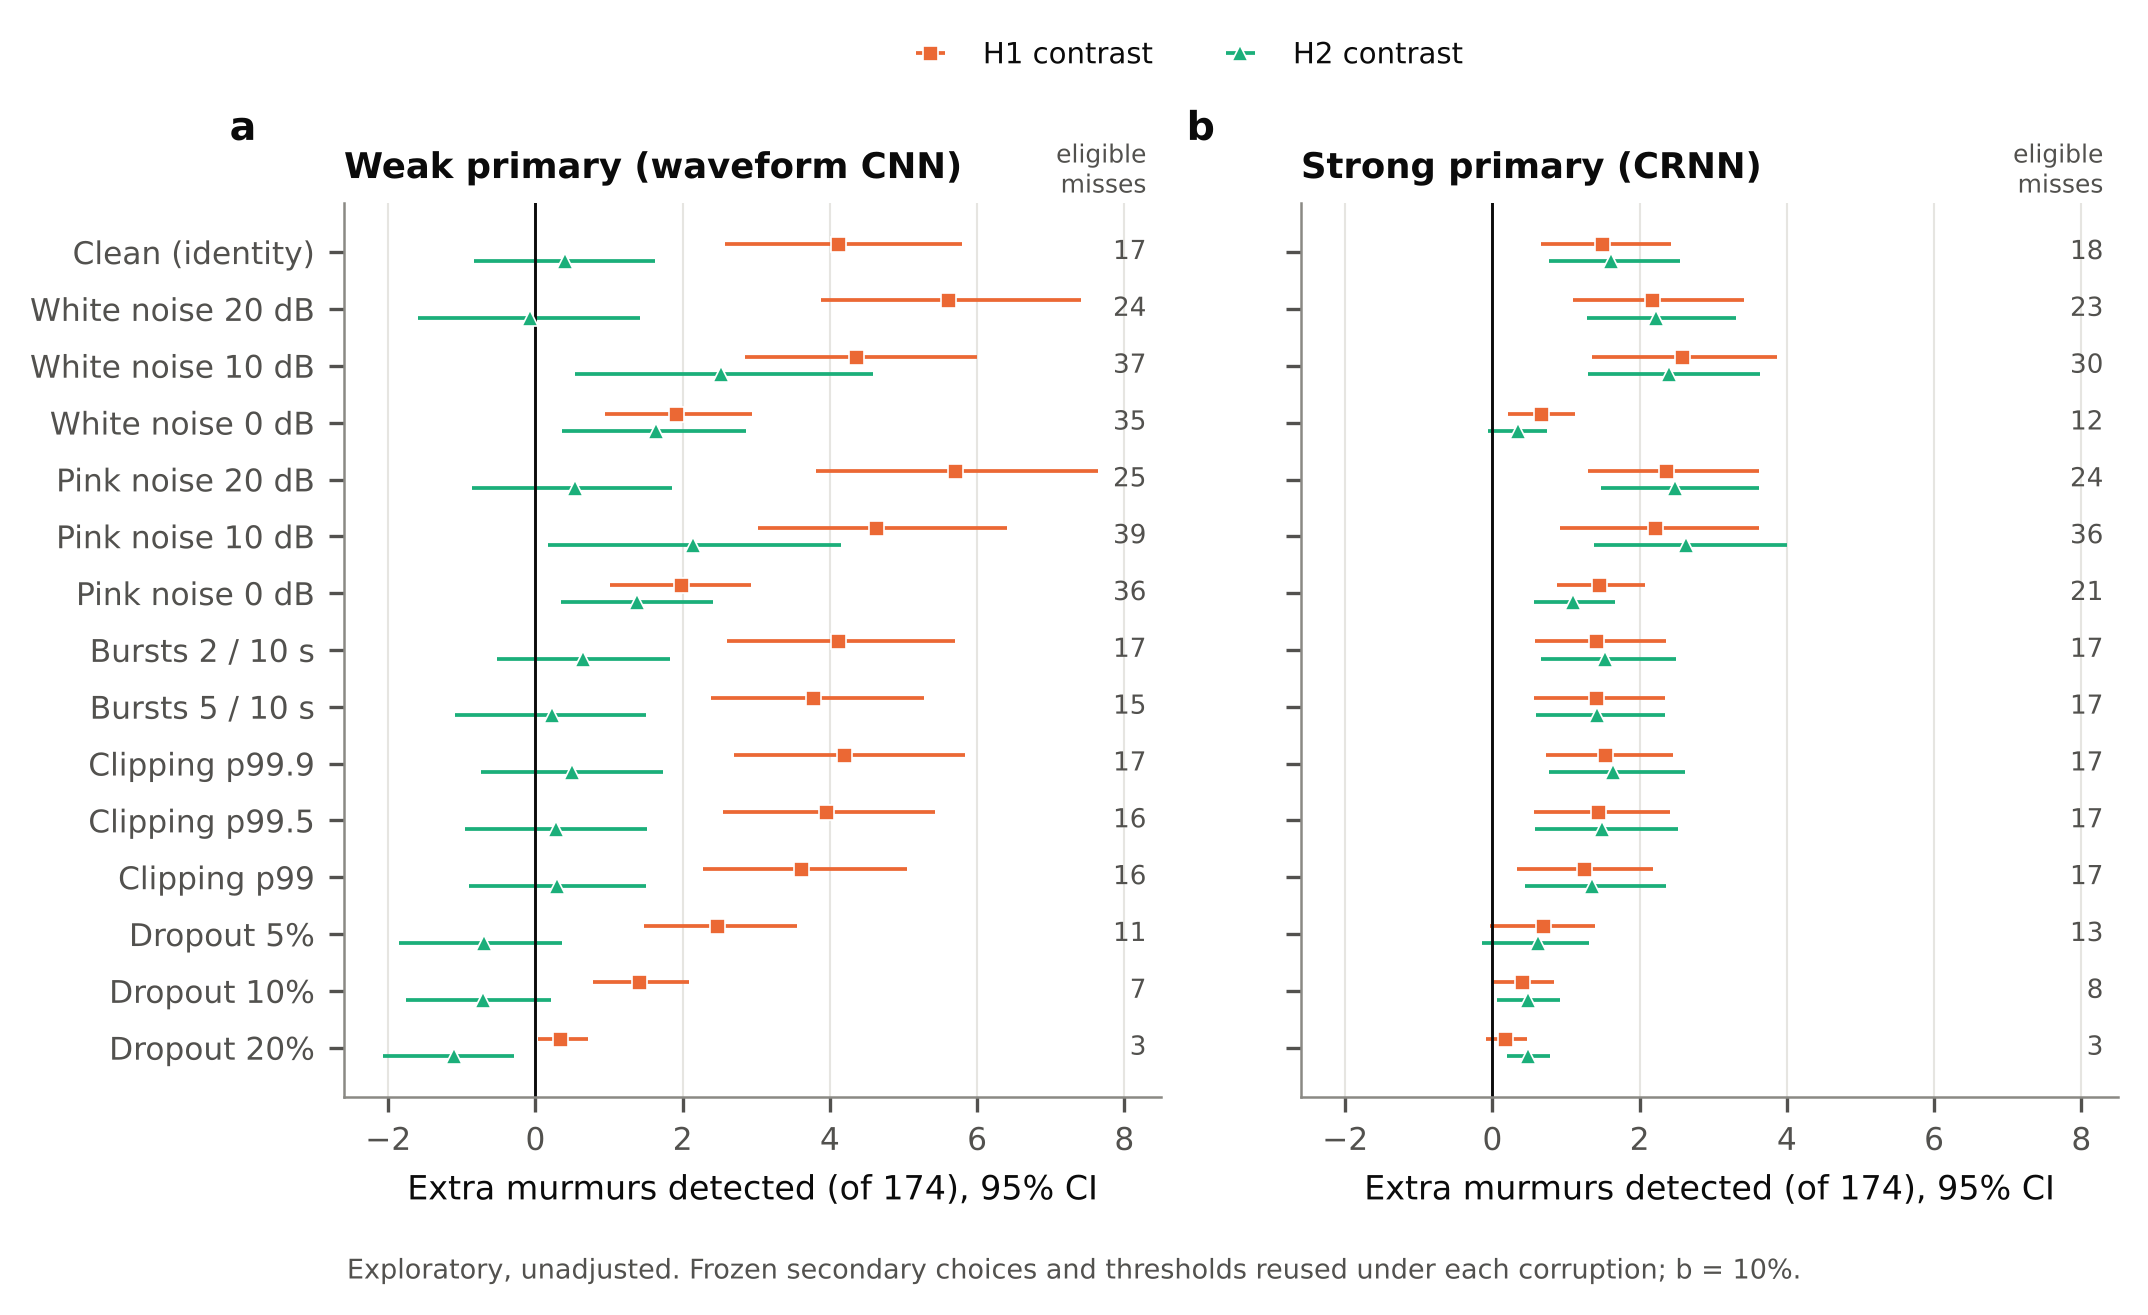
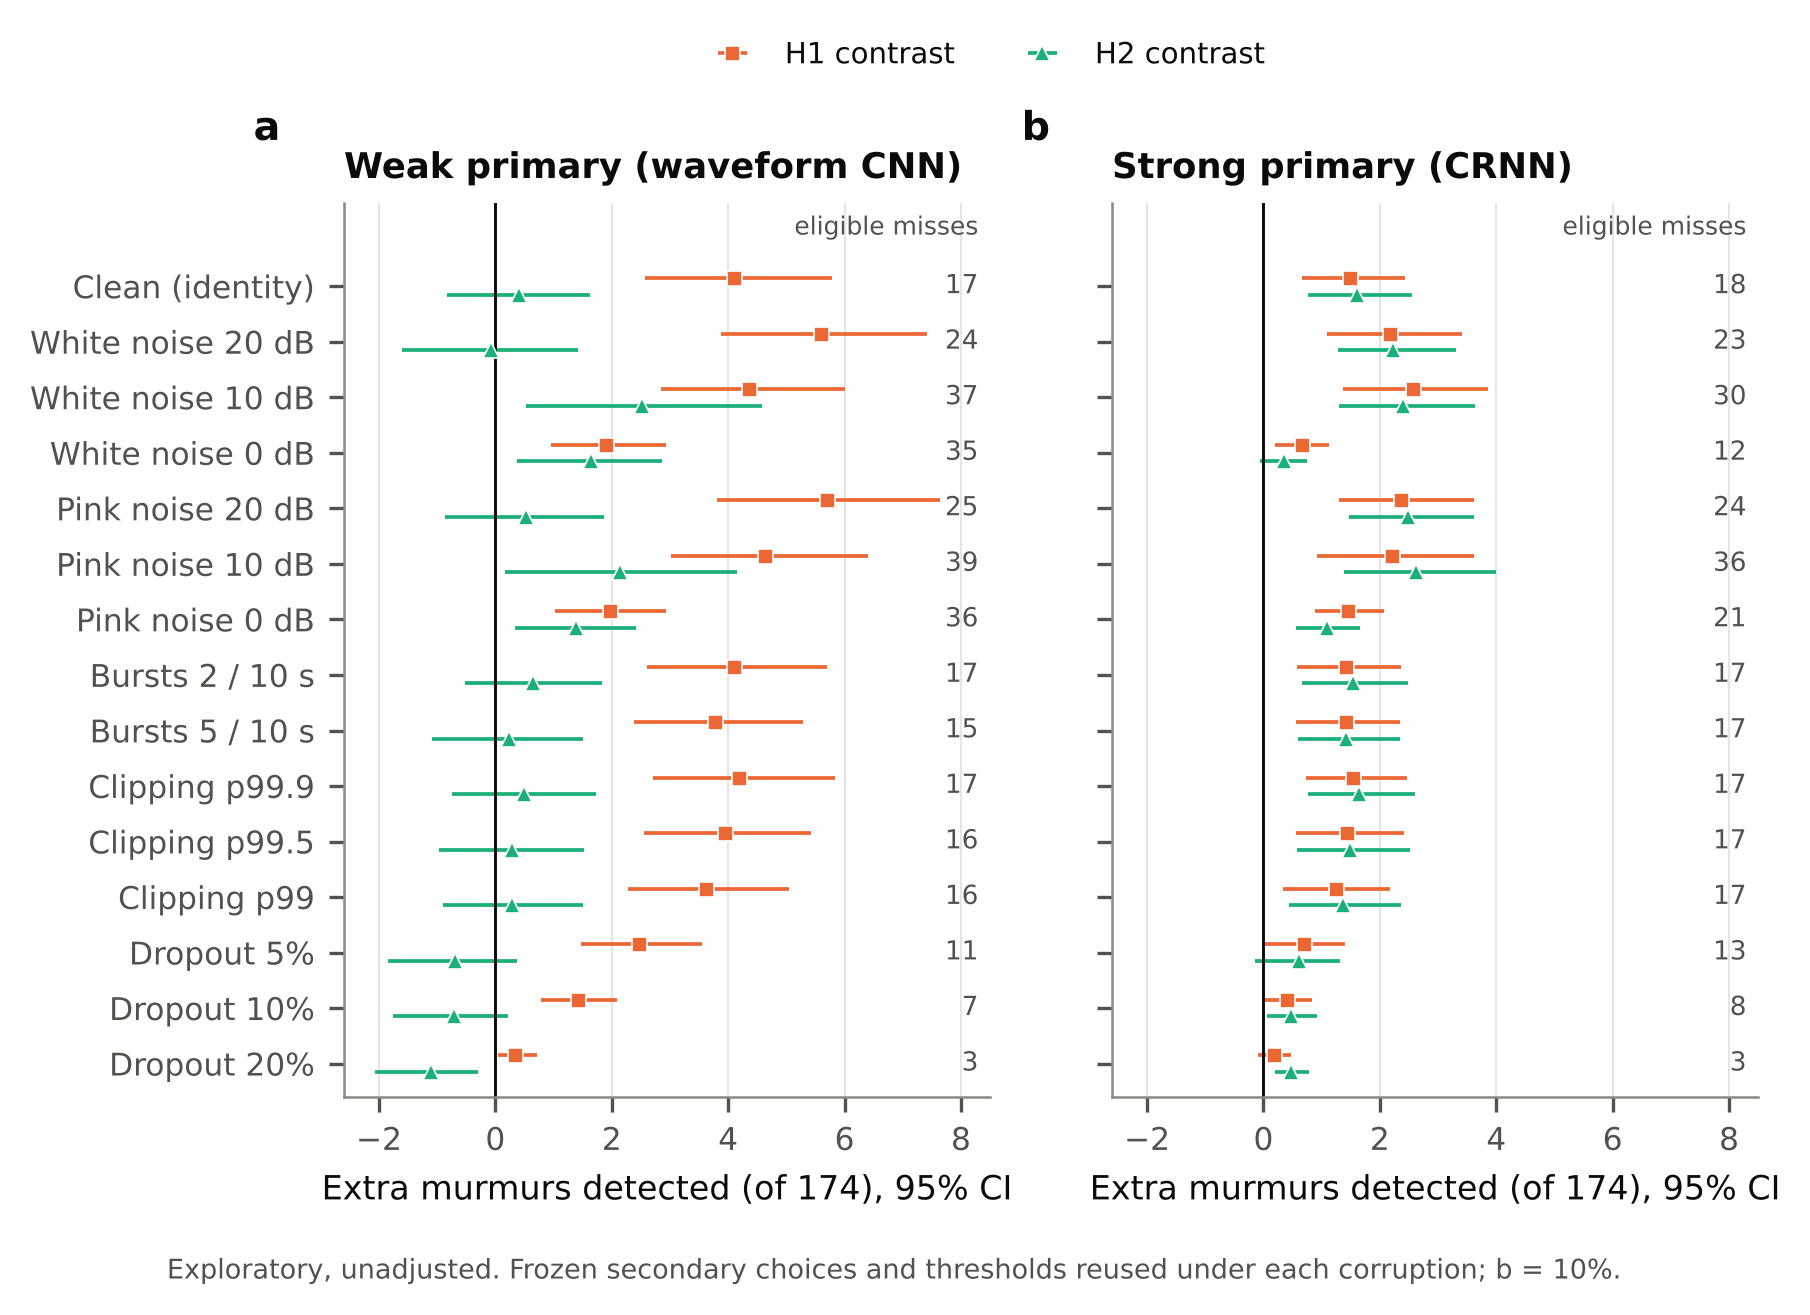
Enlarge text in budget and corruption-referral figures

diff --git a/post_hoc/make_figures.py b/post_hoc/make_figures.py
@@ -138,7 +138,7 @@ def fig_study_a():
 def fig_budget():
     desc = pd.read_csv(R / "post_hoc" / "budget_curve_descriptive.csv")
     con = pd.read_csv(R / "post_hoc" / "budget_curve_contrasts.csv")
-    fig, axes = plt.subplots(2, 2, figsize=(7.2, 5.0), sharex=True)
+    fig, axes = plt.subplots(2, 2, figsize=(6.0, 4.6), sharex=True)
     for j, pl in enumerate(["weak", "strong"]):
         d = desc[desc.primary == pl]
         ax = axes[0, j]
@@ -169,14 +169,15 @@ def fig_budget():
             ax.plot(xb, c.estimate_murmurs, color=col, marker=mk, ms=3.5, label=lab, mec="white", mew=0.5)
         ax.axhline(0, color=INK, lw=0.7)
         ax.axvline(10, color=INK2, lw=0.6, zorder=0)
-        ax.set_xlabel("Review budget b (% of the primary's predicted negatives)")
+        ax.set_xlabel("Review budget b (% of predicted negatives)")
         ax.set_ylabel("Extra murmurs detected by the\nsecond-opinion workflow (95% CI)" if j == 0 else "")
         ax.set_ylim(min(-4.0, con.ci95_lo.min() * N_PRESENT - 0.3), 6.6)
         panel_label(ax, "cd"[j])
         if j == 1:
-            ax.legend(*axes[1, 0].get_legend_handles_labels(), loc="upper right", fontsize=6.4, handlelength=1.8)
-    fig.text(0.5, -0.02, "Budget curve registered in the protocol (§6) and computed after the frozen analysis with the frozen Study C code "
-             "(deviation 3). Ribbons: individual-clustered bootstrap 95% CIs; descriptive, no tests.", ha="center", fontsize=6.5, color=INK2)
+            fig.legend(*axes[1, 0].get_legend_handles_labels(), loc="upper center", bbox_to_anchor=(0.5, 0.005), ncol=1,
+                       fontsize=6.6, handlelength=1.8)
+    fig.text(0.5, -0.115, "Budget curve registered in the protocol (§6), computed after the frozen analysis with the frozen Study C code\n"
+             "(deviation 3). Ribbons: individual-clustered bootstrap 95% CIs; descriptive, no tests.", ha="center", va="top", fontsize=6.5, color=INK2)
     fig.tight_layout(h_pad=1.4, w_pad=2.0)
     save(fig, "fig3_budget_curve")
 
@@ -343,7 +344,7 @@ def fig_study_b_snr():
 def fig_study_b_referral():
     ref = pd.read_csv(R / "studyB_referral.csv")
     conds = [c for c in COND_ORDER]
-    fig, axes = plt.subplots(1, 2, figsize=(7.2, 3.9), sharey=True)
+    fig, axes = plt.subplots(1, 2, figsize=(6.0, 3.9), sharey=True)
     ys = {c: len(conds) - i for i, c in enumerate(conds)}
     for j, pl in enumerate(["weak", "strong"]):
         ax = axes[j]
@@ -356,7 +357,8 @@ def fig_study_b_referral():
             ax.errorbar(r.H2_estimate_murmurs, ys[c] - 0.15, xerr=[[r.H2_estimate_murmurs - lo2], [hi2 - r.H2_estimate_murmurs]],
                         fmt="^", color=AQUA, ms=3.8, lw=0.9, mec="white", mew=0.4, label="H2 contrast" if c == "identity" else None)
             ax.text(8.3, ys[c], f"{r.eligible_fn:.0f}", fontsize=6.3, va="center", ha="right", color=INK2)
-        ax.text(8.3, len(conds) + 0.9, "eligible\nmisses", fontsize=6.0, va="bottom", ha="right", color=INK2)
+        ax.text(8.3, len(conds) + 1.05, "eligible misses", fontsize=6.0, va="center", ha="right", color=INK2)
+        ax.set_ylim(0.4, len(conds) + 1.5)
         ax.axvline(0, color=INK, lw=0.7)
         ax.set_xlim(-2.6, 8.5); ax.grid(axis="y", visible=False)
         ax.set_title(PRIM_L[pl], loc="left", fontweight="bold")
